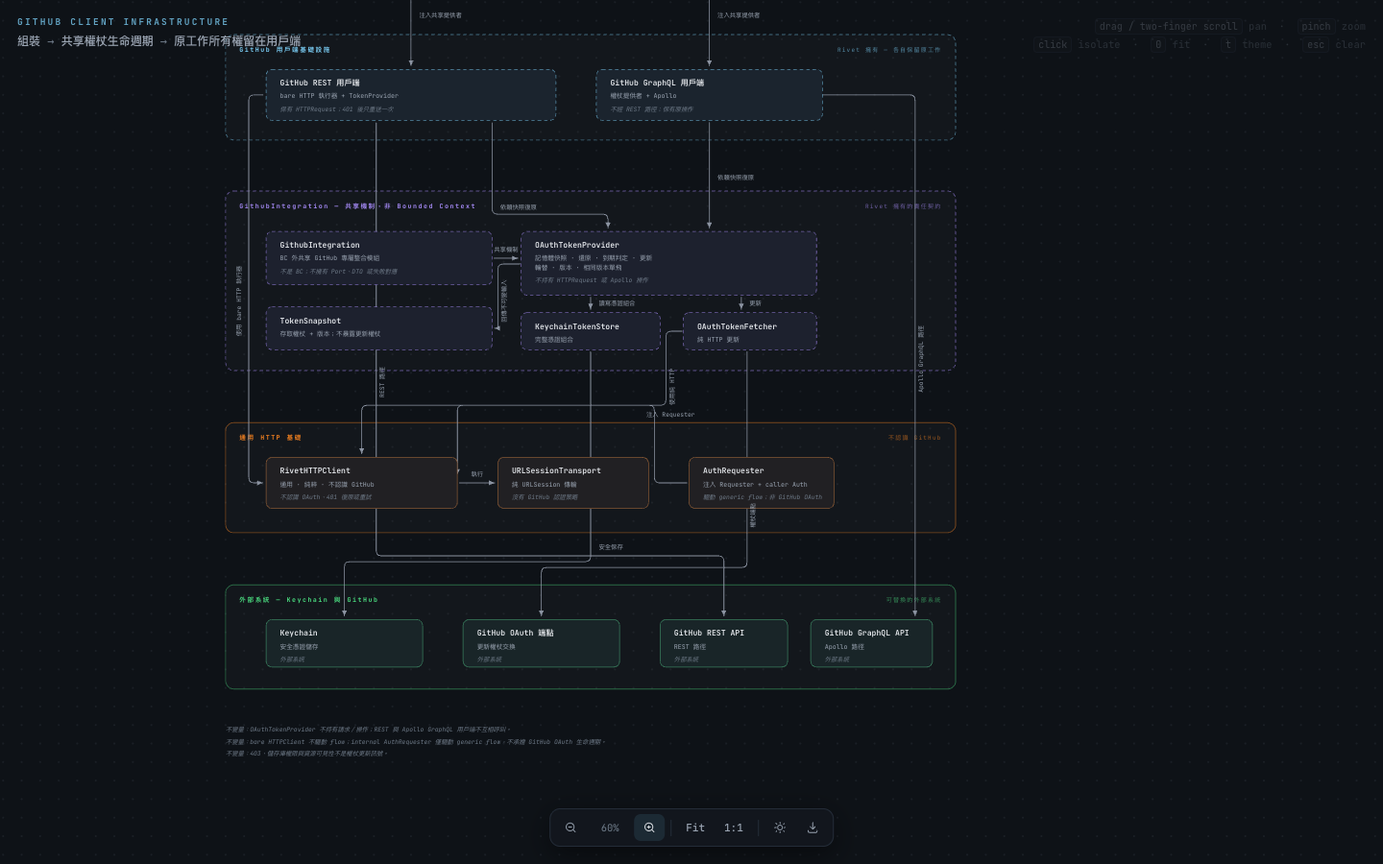
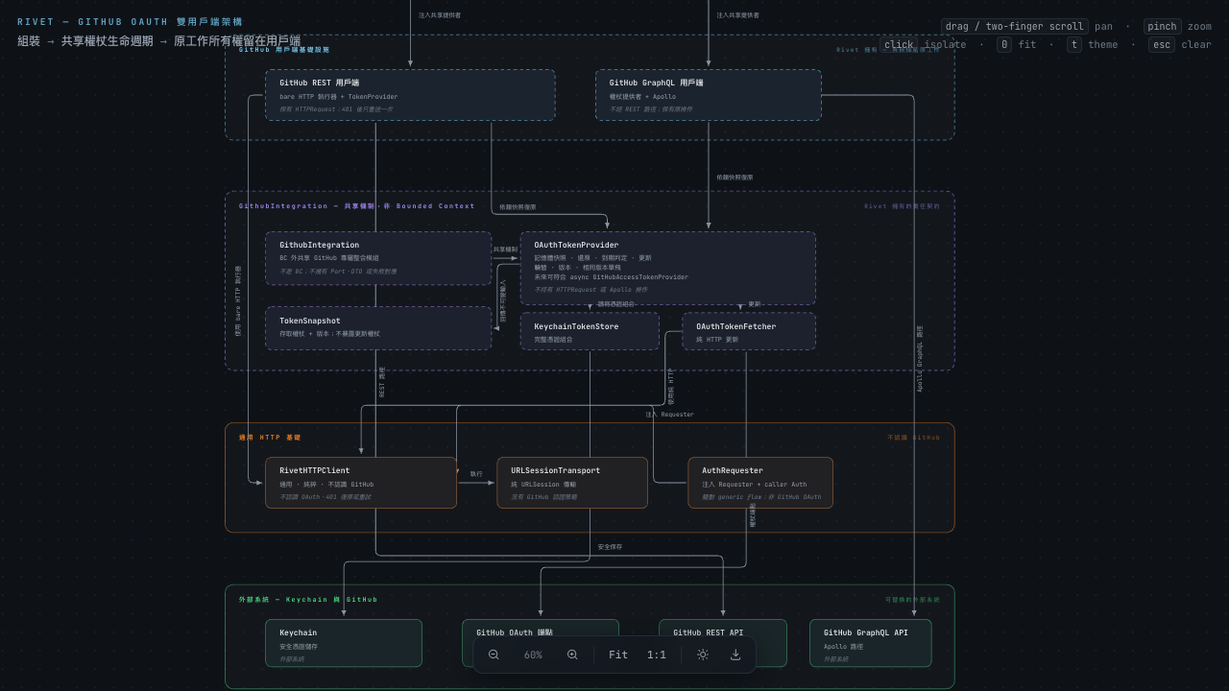
feat(github-integration): 新增非同步 access token provider

diff --git a/docs/architecture/diagrams/github-oauth-dual-client-architecture/index.html b/docs/architecture/diagrams/github-oauth-dual-client-architecture/index.html
@@ -3,7 +3,7 @@
 <head>
 <meta charset="UTF-8">
 <meta name="viewport" content="width=device-width, initial-scale=1, maximum-scale=1, user-scalable=no">
-<title>GitHub OAuth — 雙用戶端架構</title>
+<title>Rivet — GitHub OAuth 雙用戶端架構</title>
 <script>
   // Dark is the style's default — the OS preference deliberately does not
   // override it, since these diagrams are authored and reviewed as dark. A
@@ -152,7 +152,7 @@
 <div id="stage"><canvas id="c"></canvas></div>
 
 <div id="plate">
-  <div class="k">GITHUB CLIENT INFRASTRUCTURE</div>
+  <div class="k">RIVET — GITHUB OAUTH 雙用戶端架構</div>
   <div class="n"><b>組裝</b> → <b>共享權杖生命週期</b> → <b>原工作所有權留在用戶端</b></div>
 </div>
 
@@ -320,9 +320,9 @@ const BOXES = [
   { id: 'github-integration', plane: 'integration', band: 'band-integration', x: 230, y: 780, w: 390, h: 92, r: 10, dash: true,
     name: 'GithubIntegration', about: '所有 Bounded Context 之外、GitHub 專屬的未來共享整合模組。',
     texts: [['bl', 254, 808, 'GithubIntegration'], ['bs', 254, 830, 'BC 外共享 GitHub 專屬整合模組'], ['bn', 254, 852, '不是 BC；不擁有 Port、DTO 或失敗對應']] },
-  { id: 'provider', plane: 'integration', band: 'band-integration', x: 670, y: 780, w: 510, h: 110, r: 10, dash: true,
-    name: 'OAuthTokenProvider', about: '唯一擁有權杖狀態、版本、更新輪替與單飛復原的元件。',
-    texts: [['bl', 694, 808, 'OAuthTokenProvider'], ['bs', 694, 830, '記憶體快照 · 還原 · 到期判定 · 更新'], ['bs', 694, 846, '輪替 · 版本 · 相同版本單飛'], ['bn', 694, 868, '不持有 HTTPRequest 或 Apollo 操作']] },
+  { id: 'provider', plane: 'integration', band: 'band-integration', x: 670, y: 780, w: 510, h: 126, r: 10, dash: true,
+    name: 'OAuthTokenProvider', about: '唯一擁有 OAuth 權杖狀態、版本、更新輪替與單飛復原的未來元件；可在獨立 topic 決定是否符合 async token-acquisition contract。',
+    texts: [['bl', 694, 808, 'OAuthTokenProvider'], ['bs', 694, 830, '記憶體快照 · 還原 · 到期判定 · 更新'], ['bs', 694, 846, '輪替 · 版本 · 相同版本單飛'], ['bs', 694, 862, '未來可符合 async GitHubAccessTokenProvider'], ['bn', 694, 884, '不持有 HTTPRequest 或 Apollo 操作']] },
   { id: 'snapshot', plane: 'integration', band: 'band-integration', x: 230, y: 910, w: 390, h: 74, r: 10, dash: true,
     name: 'TokenSnapshot', about: '不可變的用戶端輸入，只暴露存取權杖與版本。',
     texts: [['bl', 254, 938, 'TokenSnapshot'], ['bs', 254, 960, '存取權杖 + 版本；不暴露更新權杖']] },
@@ -386,7 +386,8 @@ const TEXTS = [
   { s: 'legend', x: 1143, y: 134, t: '顏色 — 所屬責任平面' },
   { s: 'bn', x: 160, y: 1644, t: '不變量：OAuthTokenProvider 不持有請求／操作；REST 與 Apollo GraphQL 用戶端不互相呼叫。' },
   { s: 'bn', x: 160, y: 1664, t: '不變量：bare HTTPClient 不驅動 flow；internal AuthRequester 僅驅動 generic flow，不承擔 GitHub OAuth 生命週期。' },
-  { s: 'bn', x: 160, y: 1684, t: '不變量：403、儲存庫權限與資源可見性不是權杖更新訊號。' }
+  { s: 'bn', x: 160, y: 1684, t: '不變量：403、儲存庫權限與資源可見性不是權杖更新訊號。' },
+  { s: 'bn', x: 160, y: 1704, t: '已交付 async contract 僅取得權杖；PAT／OAuth 實作、401 復原與 HTTP sender 均延後。' }
 ];
 
 const SWATCHES = [

diff --git a/docs/architecture/diagrams/github-oauth-dual-client-architecture/scene.js b/docs/architecture/diagrams/github-oauth-dual-client-architecture/scene.js
@@ -37,9 +37,9 @@ const BOXES = [
   { id: 'github-integration', plane: 'integration', band: 'band-integration', x: 230, y: 780, w: 390, h: 92, r: 10, dash: true,
     name: 'GithubIntegration', about: '所有 Bounded Context 之外、GitHub 專屬的未來共享整合模組。',
     texts: [['bl', 254, 808, 'GithubIntegration'], ['bs', 254, 830, 'BC 外共享 GitHub 專屬整合模組'], ['bn', 254, 852, '不是 BC；不擁有 Port、DTO 或失敗對應']] },
-  { id: 'provider', plane: 'integration', band: 'band-integration', x: 670, y: 780, w: 510, h: 110, r: 10, dash: true,
-    name: 'OAuthTokenProvider', about: '唯一擁有權杖狀態、版本、更新輪替與單飛復原的元件。',
-    texts: [['bl', 694, 808, 'OAuthTokenProvider'], ['bs', 694, 830, '記憶體快照 · 還原 · 到期判定 · 更新'], ['bs', 694, 846, '輪替 · 版本 · 相同版本單飛'], ['bn', 694, 868, '不持有 HTTPRequest 或 Apollo 操作']] },
+  { id: 'provider', plane: 'integration', band: 'band-integration', x: 670, y: 780, w: 510, h: 126, r: 10, dash: true,
+    name: 'OAuthTokenProvider', about: '唯一擁有 OAuth 權杖狀態、版本、更新輪替與單飛復原的未來元件；可在獨立 topic 決定是否符合 async token-acquisition contract。',
+    texts: [['bl', 694, 808, 'OAuthTokenProvider'], ['bs', 694, 830, '記憶體快照 · 還原 · 到期判定 · 更新'], ['bs', 694, 846, '輪替 · 版本 · 相同版本單飛'], ['bs', 694, 862, '未來可符合 async GitHubAccessTokenProvider'], ['bn', 694, 884, '不持有 HTTPRequest 或 Apollo 操作']] },
   { id: 'snapshot', plane: 'integration', band: 'band-integration', x: 230, y: 910, w: 390, h: 74, r: 10, dash: true,
     name: 'TokenSnapshot', about: '不可變的用戶端輸入，只暴露存取權杖與版本。',
     texts: [['bl', 254, 938, 'TokenSnapshot'], ['bs', 254, 960, '存取權杖 + 版本；不暴露更新權杖']] },
@@ -103,7 +103,8 @@ const TEXTS = [
   { s: 'legend', x: 1143, y: 134, t: '顏色 — 所屬責任平面' },
   { s: 'bn', x: 160, y: 1644, t: '不變量：OAuthTokenProvider 不持有請求／操作；REST 與 Apollo GraphQL 用戶端不互相呼叫。' },
   { s: 'bn', x: 160, y: 1664, t: '不變量：bare HTTPClient 不驅動 flow；internal AuthRequester 僅驅動 generic flow，不承擔 GitHub OAuth 生命週期。' },
-  { s: 'bn', x: 160, y: 1684, t: '不變量：403、儲存庫權限與資源可見性不是權杖更新訊號。' }
+  { s: 'bn', x: 160, y: 1684, t: '不變量：403、儲存庫權限與資源可見性不是權杖更新訊號。' },
+  { s: 'bn', x: 160, y: 1704, t: '已交付 async contract 僅取得權杖；PAT／OAuth 實作、401 復原與 HTTP sender 均延後。' }
 ];
 
 const SWATCHES = [

diff --git a/Tests/GitHubIntegrationTests/GitHubAccessTokenProviderTests.swift b/Tests/GitHubIntegrationTests/GitHubAccessTokenProviderTests.swift
@@ -1,0 +1,72 @@
+import GitHubIntegration
+import Testing
+
+@Suite("GitHub async access token provider")
+struct GitHubAccessTokenProviderTests {
+  @Test
+  func externalSendableProviderConformsAndReturnsItsToken() async throws {
+    let expected = GitHubAccessToken(rawValue: "async-token")
+    let provider: any GitHubAccessTokenProvider = ExternalAccessTokenProvider(token: expected)
+
+    let actual = try await provider.token()
+
+    #expect(actual.rawValue == expected.rawValue)
+    assertSendable(provider)
+  }
+
+  @Test
+  func providerCanSurfaceAnAcquisitionFailureWithoutChangingItsPayload() async {
+    let provider: any GitHubAccessTokenProvider = FailingAccessTokenProvider()
+
+    do {
+      _ = try await provider.token()
+      Issue.record("Expected a token acquisition failure")
+    } catch let error {
+      guard case .tokenAcquisition(let actualError) = error,
+        let failure = actualError as? AcquisitionFailure,
+        case .unavailable = failure
+      else {
+        Issue.record("Expected the original acquisition failure")
+        return
+      }
+    }
+  }
+
+  @Test
+  func publicTokenAndCredentialErrorsAreSendable() {
+    let token = GitHubAccessToken(rawValue: "async-token")
+    let storeError = TokenStoreError(
+      operation: .load,
+      underlyingError: AcquisitionFailure.unavailable
+    )
+    let credentialError = GitHubCredentialError.tokenAcquisition(AcquisitionFailure.unavailable)
+
+    assertSendable(token)
+    assertSendable(storeError)
+    assertSendable(credentialError)
+  }
+}
+
+private struct FailingAccessTokenProvider: GitHubAccessTokenProvider {
+  func token() async throws(GitHubCredentialError) -> GitHubAccessToken {
+    throw .tokenAcquisition(AcquisitionFailure.unavailable)
+  }
+}
+
+private enum AcquisitionFailure: Error, Sendable {
+  case unavailable
+}
+
+private func assertSendable<Value: Sendable>(_ value: Value) {}
+
+private struct ExternalAccessTokenProvider: GitHubAccessTokenProvider {
+  let providedToken: GitHubAccessToken
+
+  init(token: GitHubAccessToken) {
+    providedToken = token
+  }
+
+  func token() async throws(GitHubCredentialError) -> GitHubAccessToken {
+    providedToken
+  }
+}

diff --git a/Tests/GitHubIntegrationConsumer/Tests/GitHubIntegrationConsumerTests/PublicAPITests.swift b/Tests/GitHubIntegrationConsumer/Tests/GitHubIntegrationConsumerTests/PublicAPITests.swift
@@ -17,13 +17,25 @@ struct PublicAPITests {
     switch GitHubCredentialError.tokenStore(storeError) {
     case .tokenStore(let actualError):
       #expect(actualError.operation == .save)
-    case .missingCredential:
+    case .missingCredential, .tokenAcquisition:
       Issue.record("Expected the public token-store error case")
     }
 
     assertSendable(TokenStoreOperation.load)
     assertSendable(storeError)
     assertSendable(GitHubCredentialError.missingCredential)
+    assertSendable(GitHubCredentialError.tokenAcquisition(StoreFailure()))
+  }
+
+  @Test
+  func asyncAccessTokenProviderCanBeUsedThroughThePublicContract() async throws {
+    let expected = GitHubAccessToken(rawValue: "consumer-token")
+    let provider: any GitHubAccessTokenProvider = ExternalAccessTokenProvider(token: expected)
+
+    let actual = try await provider.token()
+
+    #expect(actual.rawValue == expected.rawValue)
+    assertSendable(provider)
   }
 
   @Test
@@ -120,5 +132,17 @@ private struct ExternalTokenStore: GitHubTokenStore {
 }
 
 private final class StoreFailure: Error, @unchecked Sendable {}
+
+private struct ExternalAccessTokenProvider: GitHubAccessTokenProvider {
+  let providedToken: GitHubAccessToken
+
+  init(token: GitHubAccessToken) {
+    providedToken = token
+  }
+
+  func token() async throws(GitHubCredentialError) -> GitHubAccessToken {
+    providedToken
+  }
+}
 
 private func assertSendable<Value: Sendable>(_ value: Value) {}

diff --git a/Sources/BoundedContexts/GitHubIntegration/Contracts/CredentialTypes.swift b/Sources/BoundedContexts/GitHubIntegration/Contracts/CredentialTypes.swift
@@ -1,4 +1,4 @@
-public struct GitHubAccessToken {
+public struct GitHubAccessToken: Sendable {
   public let rawValue: String
 
   public init(rawValue: String) {
@@ -12,17 +12,18 @@ public enum TokenStoreOperation: Sendable {
   case delete
 }
 
-public struct TokenStoreError: Error {
+public struct TokenStoreError: Error, Sendable {
   public let operation: TokenStoreOperation
-  public let underlyingError: any Error
+  public let underlyingError: any Error & Sendable
 
-  public init(operation: TokenStoreOperation, underlyingError: any Error) {
+  public init(operation: TokenStoreOperation, underlyingError: any Error & Sendable) {
     self.operation = operation
     self.underlyingError = underlyingError
   }
 }
 
-public enum GitHubCredentialError: Error {
+public enum GitHubCredentialError: Error, Sendable {
   case missingCredential
   case tokenStore(TokenStoreError)
+  case tokenAcquisition(any Error & Sendable)
 }

diff --git a/Tests/GitHubIntegrationTests/StaticIsolationTests.swift b/Tests/GitHubIntegrationTests/StaticIsolationTests.swift
@@ -349,6 +349,7 @@ struct StaticIsolationTests {
 
     let expectedPaths: Set = [
       "Contracts/CredentialTypes.swift",
+      "Contracts/GitHubAccessTokenProvider.swift",
       "Contracts/GitHubTokenStore.swift",
       "Contracts/GitHubTokenProvider.swift",
       "Providers/TokenStoreGitHubTokenProvider.swift",

diff --git a/Tests/GitHubIntegrationTests/GitHubTokenProviderTests.swift b/Tests/GitHubIntegrationTests/GitHubTokenProviderTests.swift
@@ -83,6 +83,6 @@ private struct MockTokenStore: GitHubTokenStore {
   func delete() throws(TokenStoreError) {}
 }
 
-private enum UnderlyingStoreFailure: Error {
+private enum UnderlyingStoreFailure: Error, Sendable {
   case load
 }

diff --git a/Sources/BoundedContexts/GitHubIntegration/Contracts/GitHubAccessTokenProvider.swift b/Sources/BoundedContexts/GitHubIntegration/Contracts/GitHubAccessTokenProvider.swift
@@ -1,0 +1,3 @@
+public protocol GitHubAccessTokenProvider: Sendable {
+  func token() async throws(GitHubCredentialError) -> GitHubAccessToken
+}

diff --git a/docs/architecture/README.md b/docs/architecture/README.md
@@ -42,7 +42,7 @@ Swift snapshot → DiffFacade.present → DiffRenderUseCase.execute → Validato
 - **RivetHTTPClient**：BC 外的 GitHub-unaware generic technical foundation；`HTTPClient` 只執行 bare HTTP request。internal `AuthRequester` 以 injected `Requester` 與 caller-provided `Auth` 建立並驅動 `AuthFlow` 的 `.send → raw HTTPResponse → receive` loop，但 flow 保有認證決策。
 - **Presentation Session**：擁有目前選取的 PR 與切換狀態；它屬於 Presentation，不屬於任何 Bounded Context。
 - PR Inbox 與 PR Reader 不直接依賴彼此，也不建立 BC-to-BC compile-time dependency。各 BC 的 Core、UseCase 與 Port 不依賴 GitHub protocol 或 transport；未來各自的 Infra 隔離 GitHub adapter、operation／endpoint、endpoint-specific media type、DTO 與 failure mapping。
-- `GitHubIntegration` 是位於 BC 外的 shared GitHub-specific integration module，不是 Supporting BC 或集中 adapter 邊界。目前 root Swift package target 提供可注入、同步、typed-throws 的 access-token store/provider contract，並已交付 public、process-local、non-persistent 的 `InMemoryGitHubTokenStore`，僅在單一 store instance 的生命週期保存一個 token：未保存 token 映射為 missing credential，store load failure 保留為 token-store error；它不實作 Keychain 或其他跨 process persistence，也不實作 authorization。未來只有各 BC Infra 可依賴其 raw transport、authentication mechanism、共通 request headers／API version、pagination、rate limit、retry、GitHub error technical classification 與 shared configuration；上述均為 deferred mechanism，並非已實作 policy。它不依賴任何 BC，也不產生 shared BC failure contract。各 BC Infra 仍各自擁有 DTO translation、technical classification 到其 failure contract 的 mapping 與 business meaning。
+- `GitHubIntegration` 是位於 BC 外的 shared GitHub-specific integration module，不是 Supporting BC 或集中 adapter 邊界。目前 root Swift package target 提供既有可注入、同步、typed-throws 的 access-token store/provider contract，以及 public、`Sendable`、async 的 `GitHubAccessTokenProvider` token-acquisition contract；後者只交付 `token()` 與 credential failure surface，尚未有 PAT 或 OAuth conformer，且不擁有 refresh、401 recovery、retry、request 或 transport。另已交付 public、process-local、non-persistent 的 `InMemoryGitHubTokenStore`，僅在單一 store instance 的生命週期保存一個 token：未保存 token 映射為 missing credential，store load failure 保留為 token-store error；它不實作 Keychain 或其他跨 process persistence，也不實作 authorization。未來只有各 BC Infra 可依賴其 raw transport、authentication mechanism、共通 request headers／API version、pagination、rate limit、retry、GitHub error technical classification 與 shared configuration；上述均為 deferred mechanism，並非已實作 policy。它不依賴任何 BC，也不產生 shared BC failure contract。各 BC Infra 仍各自擁有 DTO translation、technical classification 到其 failure contract 的 mapping 與 business meaning。
 - 此 boundary 決定 supersede `github-integration-auth-boundary`／PR #17 的 Supporting BC 敘述；該舊決定僅保留為歷史 traceability。
 
 ## PR Reader WebView Diff Pipeline
@@ -67,4 +67,4 @@ PR Reader 的 WebView diff rendering 中，Facade／UseCase orchestration 已有
 
 ## 尚未定義的項目
 
-Rivet 仍是 architecture baseline。`RivetHTTPClient` 是 generic、GitHub-unaware 的 technical HTTP foundation，可由各 consuming Domain BC 的 local Infra 採用；它具備 Swift product、target、最小 HTTP 介面與 package-owned `URLSessionTransport`。`HTTPHeaders` 提供 case-insensitive lookup 與 typed read/write convenience，`HTTPResponse` 保留 canonical raw `Data` response，並提供由呼叫端傳入 `JSONDecoder` 的 opt-in `json(_:decoder:)` 與 `jsonSemantic(_:decoder:)` conveniences。兩個 API 的 decoded payload 都必須符合 `Decodable & Sendable`；這是 public source-breaking contract。前者直接傳遞 decoder 的原始 error；後者只將 decode failure 分類為有限 semantic kind，並保留完整 underlying error。它以 `HTTPClientError` 表達 cancellation、network failure、non-HTTP response 與無法分類的 underlying failure，並將所有 HTTP status 與 raw response data 原樣保留給呼叫端。public `HTTPClientError.authFlowFinishedWithoutResponse` 是 internal `AuthRequester` 在 flow 尚未取得 response 即 `.finish` 時表達的 generic、non-transport terminal error；它不重分類既有 transport failure，也不建立 status policy。package 不擁有 decoder configuration；它不是 `GitHubIntegration` 的實作，也不提供 Endpoint、Base URL、Path 或 Query 的 URL 組裝 API，且不實作 status 或 `Content-Type` validation、retry、token refresh、default/shared JSON decoder 或其他 response decode policy；`jsonSemantic(_:decoder:)` 僅是 caller-invoked decode-failure classification，不改變 raw response dataflow。GitHub endpoint、endpoint-specific media type、DTO 與 technical classification 至 Domain failure contract 的 mapping 都屬 consuming Domain BC local Infra。`GitHubIntegration` 是已實作的 non-BC shared GitHub-specific integration module，目前提供 access-token store/provider contract，並已交付 public、process-local、non-persistent 的 `InMemoryGitHubTokenStore`，僅在單一 store instance 的 process-memory lifecycle 保存一個 token；Keychain、cross-process credential persistence、authorization，以及 GitHub REST／GraphQL raw request execution、authentication mechanism、共通 request headers／API version、rate limit、retry、pagination、GitHub error technical classification 與 shared configuration 仍為 deferred capability。它不依賴任何 BC，且不承擔 BC 的 DTO translation、failure mapping 或 business meaning，也不產生 shared BC failure contract。除這個受限切片與既定 PR Reader WebView diff pipeline contract 外，本階段不定義 `Outcome` 的程式碼型別、泛型、case 名稱、payload schema，也不定義其餘 module、package 或產品實作細節。這些決策將隨著一次一個 Bounded Context 的實作 topic 處理。
+Rivet 仍是 architecture baseline。`RivetHTTPClient` 是 generic、GitHub-unaware 的 technical HTTP foundation，可由各 consuming Domain BC 的 local Infra 採用；它具備 Swift product、target、最小 HTTP 介面與 package-owned `URLSessionTransport`。`HTTPHeaders` 提供 case-insensitive lookup 與 typed read/write convenience，`HTTPResponse` 保留 canonical raw `Data` response，並提供由呼叫端傳入 `JSONDecoder` 的 opt-in `json(_:decoder:)` 與 `jsonSemantic(_:decoder:)` conveniences。兩個 API 的 decoded payload 都必須符合 `Decodable & Sendable`；這是 public source-breaking contract。前者直接傳遞 decoder 的原始 error；後者只將 decode failure 分類為有限 semantic kind，並保留完整 underlying error。它以 `HTTPClientError` 表達 cancellation、network failure、non-HTTP response 與無法分類的 underlying failure，並將所有 HTTP status 與 raw response data 原樣保留給呼叫端。public `HTTPClientError.authFlowFinishedWithoutResponse` 是 internal `AuthRequester` 在 flow 尚未取得 response 即 `.finish` 時表達的 generic、non-transport terminal error；它不重分類既有 transport failure，也不建立 status policy。package 不擁有 decoder configuration；它不是 `GitHubIntegration` 的實作，也不提供 Endpoint、Base URL、Path 或 Query 的 URL 組裝 API，且不實作 status 或 `Content-Type` validation、retry、token refresh、default/shared JSON decoder 或其他 response decode policy；`jsonSemantic(_:decoder:)` 僅是 caller-invoked decode-failure classification，不改變 raw response dataflow。GitHub endpoint、endpoint-specific media type、DTO 與 technical classification 至 Domain failure contract 的 mapping 都屬 consuming Domain BC local Infra。`GitHubIntegration` 是已實作的 non-BC shared GitHub-specific integration module，目前提供同步 access-token store/provider contract，以及沒有 conformer 的 public、`Sendable` async `GitHubAccessTokenProvider` token-acquisition contract；後者不實作 PAT／OAuth lifecycle、`AsyncHttpSender`、authorization、401 recovery 或 retry。另已交付 public、process-local、non-persistent 的 `InMemoryGitHubTokenStore`，僅在單一 store instance 的 process-memory lifecycle 保存一個 token；Keychain、cross-process credential persistence、GitHub REST／GraphQL raw request execution、authentication mechanism、共通 request headers／API version、rate limit、retry、pagination、GitHub error technical classification 與 shared configuration 仍為 deferred capability。它不依賴任何 BC，且不承擔 BC 的 DTO translation、failure mapping 或 business meaning，也不產生 shared BC failure contract。除這個受限切片與既定 PR Reader WebView diff pipeline contract 外，本階段不定義 `Outcome` 的程式碼型別、泛型、case 名稱、payload schema，也不定義其餘 module、package 或產品實作細節。這些決策將隨著一次一個 Bounded Context 的實作 topic 處理。

diff --git a/plan/github-async-access-token-provider/github-async-access-token-provider.plan.md b/plan/github-async-access-token-provider/github-async-access-token-provider.plan.md
@@ -1,0 +1,69 @@
+# GitHub Async Access Token Provider
+
+建議 branch：`feat/github-async-access-token-provider`。
+
+## Goal
+
+新增 async、可跨 task／actor 傳遞的 `GitHubAccessTokenProvider`；成功只保證 token 在回傳當下可供送出。
+
+## Non-Goal
+
+- 不實作 PAT／OAuth provider、refresh、expiry、401 recovery、forced refresh、retry、`AsyncHttpSender` 或 authorization header。
+- 不修改、deprecated、adapter 化或遷移同步 `GitHubTokenProvider`／`GitHubTokenStore`。
+- 不改 root manifest、module target、`RivetHTTPClient`、PR Inbox、PR Reader 或 `InMemoryGitHubTokenStore` 的並行模型；不發布 canvas。
+
+## In-Scope
+
+- `GitHubAccessTokenProvider: Sendable` 與 `async throws(GitHubCredentialError)` 的 `token()`。
+- credential value/error 的完整 `Sendable` surface，以及 `.tokenAcquisition(any Error & Sendable)`。
+- internal／external consumer tests、static isolation、architecture docs 與既有 OAuth canvas。
+
+## Out-Of-Scope
+
+- OAuth endpoint/payload/HTTP mapping、lifecycle state machine、GraphQL interceptor、REST adapter 與 shared BC failure mapping。
+- 新舊 protocol 的 migration 或 compatibility layer。
+
+## ReadOnly
+
+- `Package.swift`、所有 target/product declarations、toolchain、CI、hooks 與 consumer manifest。
+- `GitHubTokenProvider.swift`、`GitHubTokenStore.swift`、`TokenStoreGitHubTokenProvider.swift`、`InMemoryGitHubTokenStore.swift`。
+- `RivetHTTPClient`、PR Inbox／PR Reader source/tests、OAuth canonical/historical lifecycle evidence，以及所有未列於 Written/Modify 的 tracked paths。
+
+## Written
+
+- `analysis/github-async-access-token-provider/requirements.md`
+- `analysis/github-async-access-token-provider/technical-spec.md`
+- `plan/github-async-access-token-provider/github-async-access-token-provider.plan.md`
+- `plan/github-async-access-token-provider/github-async-access-token-provider.step.md`
+- `Sources/BoundedContexts/GitHubIntegration/Contracts/GitHubAccessTokenProvider.swift`
+- `Tests/GitHubIntegrationTests/GitHubAccessTokenProviderTests.swift`
+
+## Deleted
+
+無。不得刪除、搬移或更名任何 tracked file。
+
+## Modify
+
+- `CredentialTypes.swift`：讓 credential values/errors 符合 `Sendable`，並新增 generic acquisition failure。
+- 既有 provider tests、static isolation test、external consumer public API tests。
+- 長期 architecture docs，以及 OAuth canvas 的 `scene.js`、generated `index.html`、visual screenshots 與 review。
+
+## Swift Implementation
+
+1. 新增 external fake 的 red test，證明 public async typed-throws contract 尚不存在。
+2. 實作最小 protocol 與 credential `Sendable` changes；不新增 conformer。
+3. 使 internal／consumer／static-isolation tests 綠燈，並維持舊同步 provider regression。
+4. 文件與 canvas 僅表達已交付 contract、未交付 lifecycle；完成 canvas validate、build、accessibility 與 visual review。
+
+## TestCase
+
+| ID | 驗收 |
+| --- | --- |
+| TC-01 | external `Sendable` fake 可 conform，且 `await token()` 原樣回傳 token。 |
+| TC-02 | `.tokenAcquisition` 保留 `Error & Sendable` payload。 |
+| TC-03 | token、store error、credential error 與 provider surface 均通過 compile-time `Sendable` 驗證。 |
+| TC-04 | 同步 provider 維持原 token、missing credential 與 store-error mapping。 |
+| TC-05 | static isolation source set 含新 contract，且無 HTTP/Keychain/Security/Apollo imports。 |
+| TC-06 | consumer 僅 import `GitHubIntegration` 即可使用新 public async contract。 |
+| TC-07 | docs/canvas 不宣稱 lifecycle implementation；canvas checks 通過且不發布。 |
+| TC-08 | root build/tests、consumer validation 與 `git diff --check` 通過。 |

diff --git a/docs/architecture/bounded-contexts/README.md b/docs/architecture/bounded-contexts/README.md
@@ -5,4 +5,4 @@
 - [PR Inbox](pr-inbox.md)
 - [PR Reader](pr-reader.md)
 
-PR Inbox 與 PR Reader 保有各自的 Core、UseCase、Port 與 failure contract；BC 之間不建立 compile-time dependency。`GitHubIntegration` 是 BC 外的 shared GitHub-specific integration module，不是 Supporting BC；目前提供可注入、同步、typed-throws 的 access-token store/provider contract，並已交付 public、process-local、non-persistent 的 `InMemoryGitHubTokenStore`，僅在單一 store instance 的生命週期保存一個 token；未保存 token 映射為 missing credential，store load failure 保留為 token-store error。Keychain、cross-process credential persistence 與 authorization 仍未實作。每個 Domain BC 未來在自己的 Infra 隔離所需 GitHub 外部協定，並可依賴其 deferred raw transport、authentication、共通 request headers／API version、pagination、rate-limit、retry、GitHub error technical classification 與 shared configuration。endpoint-specific media type、DTO translation，以及 technical classification 到該 BC failure contract 的 mapping 與 business meaning，仍只屬該 BC Infra；`GitHubIntegration` 不依賴任何 BC，也不產生 shared BC failure contract。`github-integration-auth-boundary`／PR #17 的 Supporting BC 敘述僅保留為已 supersede 的歷史 traceability。generic `Auth`／`AuthFlow` contract 屬 `RivetHTTPClient`；internal `AuthRequester` 以 injected `Requester` 與 caller-provided `Auth` 驅動其 `.send → raw HTTPResponse → receive` loop，而 flow 保有認證決策；bare `HTTPClient` 不認識 auth。
+PR Inbox 與 PR Reader 保有各自的 Core、UseCase、Port 與 failure contract；BC 之間不建立 compile-time dependency。`GitHubIntegration` 是 BC 外的 shared GitHub-specific integration module，不是 Supporting BC；目前提供既有可注入、同步、typed-throws 的 access-token store/provider contract，以及沒有 conformer 的 public、`Sendable` async `GitHubAccessTokenProvider` token-acquisition contract。後者只交付 `token()` 與 credential failure surface，不處理 PAT／OAuth lifecycle、request、transport、401 recovery 或 retry。另已交付 public、process-local、non-persistent 的 `InMemoryGitHubTokenStore`，僅在單一 store instance 的生命週期保存一個 token；未保存 token 映射為 missing credential，store load failure 保留為 token-store error。Keychain、cross-process credential persistence 與 authorization 仍未實作。每個 Domain BC 未來在自己的 Infra 隔離所需 GitHub 外部協定，並可依賴其 deferred raw transport、authentication、共通 request headers／API version、pagination、rate-limit、retry、GitHub error technical classification 與 shared configuration。endpoint-specific media type、DTO translation，以及 technical classification 到該 BC failure contract 的 mapping 與 business meaning，仍只屬該 BC Infra；`GitHubIntegration` 不依賴任何 BC，也不產生 shared BC failure contract。`github-integration-auth-boundary`／PR #17 的 Supporting BC 敘述僅保留為已 supersede 的歷史 traceability。generic `Auth`／`AuthFlow` contract 屬 `RivetHTTPClient`；internal `AuthRequester` 以 injected `Requester` 與 caller-provided `Auth` 驅動其 `.send → raw HTTPResponse → receive` loop，而 flow 保有認證決策；bare `HTTPClient` 不認識 auth。

diff --git a/docs/architecture/diagrams/github-oauth-dual-client-architecture/canvas-visual-review.md b/docs/architecture/diagrams/github-oauth-dual-client-architecture/canvas-visual-review.md
@@ -5,7 +5,7 @@
 | Evidence | Zoom / pan | 可證明的範圍 | 人工檢視結果 |
 | --- | --- | --- | --- |
 | [canvas-overview-1440x900.png](canvas-overview-1440x900.png) | 36% fit；viewer hash `#0.357,376,48` | 五個 band、Facade 到兩個用戶端的主要依賴、共享 integration、HTTP 基礎與外部系統均完整可見。此圖用於完整性，不宣稱所有小字可讀。 | 五個責任平面與主要依賴路徑完整可見，沒有元件重疊或不相關路徑穿越。 |
-| [canvas-top-1440x900.png](canvas-top-1440x900.png) | 46%；viewer hash `#0.464,273,-73` | 標題、layer 外組裝根節點 Facade、GitHub REST／GraphQL 用戶端，以及 GithubIntegration、OAuthTokenProvider、TokenSnapshot、KeychainTokenStore、OAuthTokenFetcher 的文字與相互依賴。 | 文字可讀；REST → bare HTTP executor 的左側 dependency edge、REST 的 TokenProvider 依賴、band 邊界、元件與箭頭沒有碰撞。 |
+| [canvas-top-1440x900.png](canvas-top-1440x900.png) | 46%；viewer hash `#0.464,273,-73` | 標題、layer 外組裝根節點 Facade、GitHub REST／GraphQL 用戶端，以及 GithubIntegration、OAuthTokenProvider、TokenSnapshot、KeychainTokenStore、OAuthTokenFetcher 的文字與相互依賴。 | 文字可讀；OAuthTokenProvider 內「未來可符合 async GitHubAccessTokenProvider」標籤沒有碰撞，且不將 lifecycle implementation 誤畫為已交付。 |
 | [canvas-bottom-1440x900.png](canvas-bottom-1440x900.png) | 60%；viewer hash `#0.603,138,-229` | shared integration、RivetHTTPClient、URLSessionTransport、AuthRequester、Keychain 與 GitHub 外部 API，以及 REST → bare HTTP executor edge 的完整下半路徑。 | 文字可讀；AuthRequester 注入 `Requester` 與 caller `Auth`、僅驅動 generic flow 而非 GitHub OAuth；HTTP 基礎、外部系統與垂直依賴路徑沒有碰撞。 |
 
-既有 [canvas-1440x900.png](canvas-1440x900.png) 保留作為先前 evidence，未以局部圖宣稱完整畫布可見。此 canvas 只表達責任與依賴，未表達 runtime sequence。
+既有 [canvas-1440x900.png](canvas-1440x900.png) 保留作為先前 evidence，未以局部圖宣稱完整畫布可見。此 canvas 只表達責任與依賴，未表達 runtime sequence。本機 viewer 的唯一 console error 是缺少 `favicon.ico` 的 404，與 canvas runtime 或內容無關。
